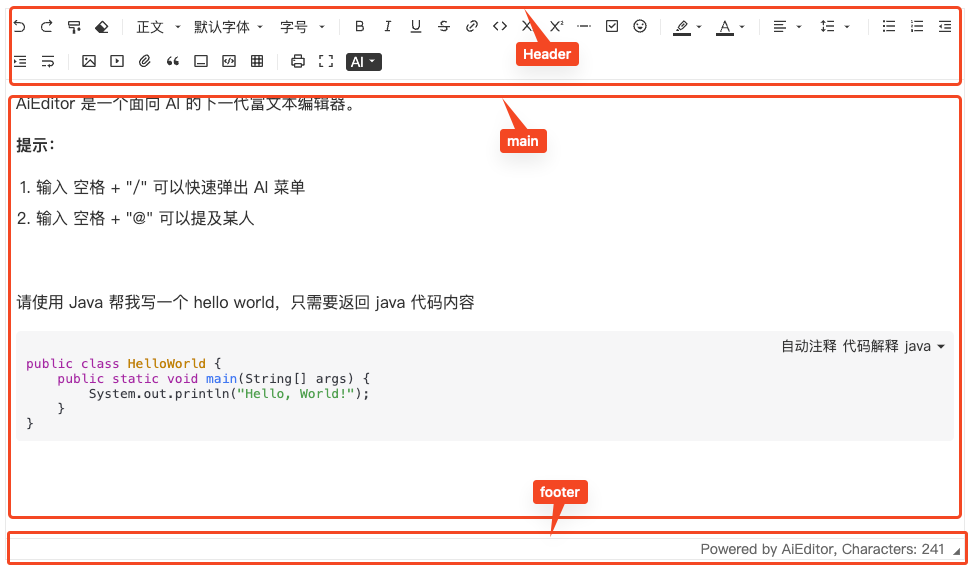
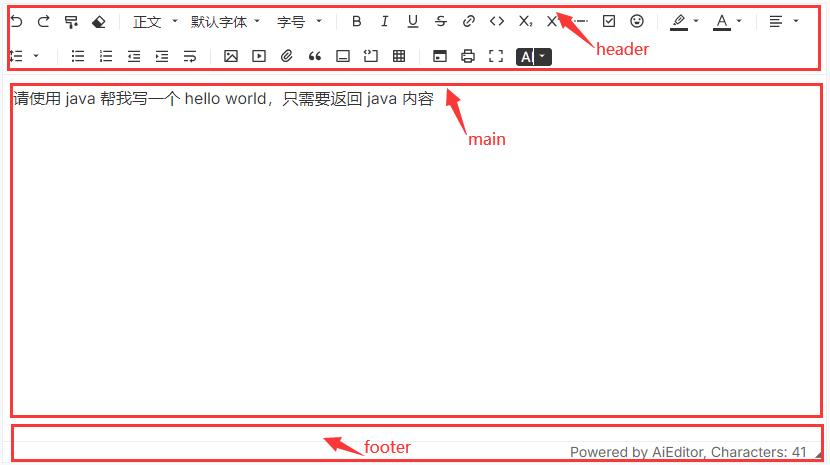
doc images

Changed region(s): [[0.0, 0.0, 1.0, 1.0]]

diff --git a/docs/config/layout.md b/docs/config/layout.md
@@ -2,7 +2,7 @@
 
 By default, when AiEditor is initialized, it will create the editor's head menu, editing area, and bottom word count display area. As shown in the figure below:
 
-![](../assets/image/aieditor-areas.png)
+![](../assets/image/aieditor-areas-en.png)
 
 ## Default sample
 
